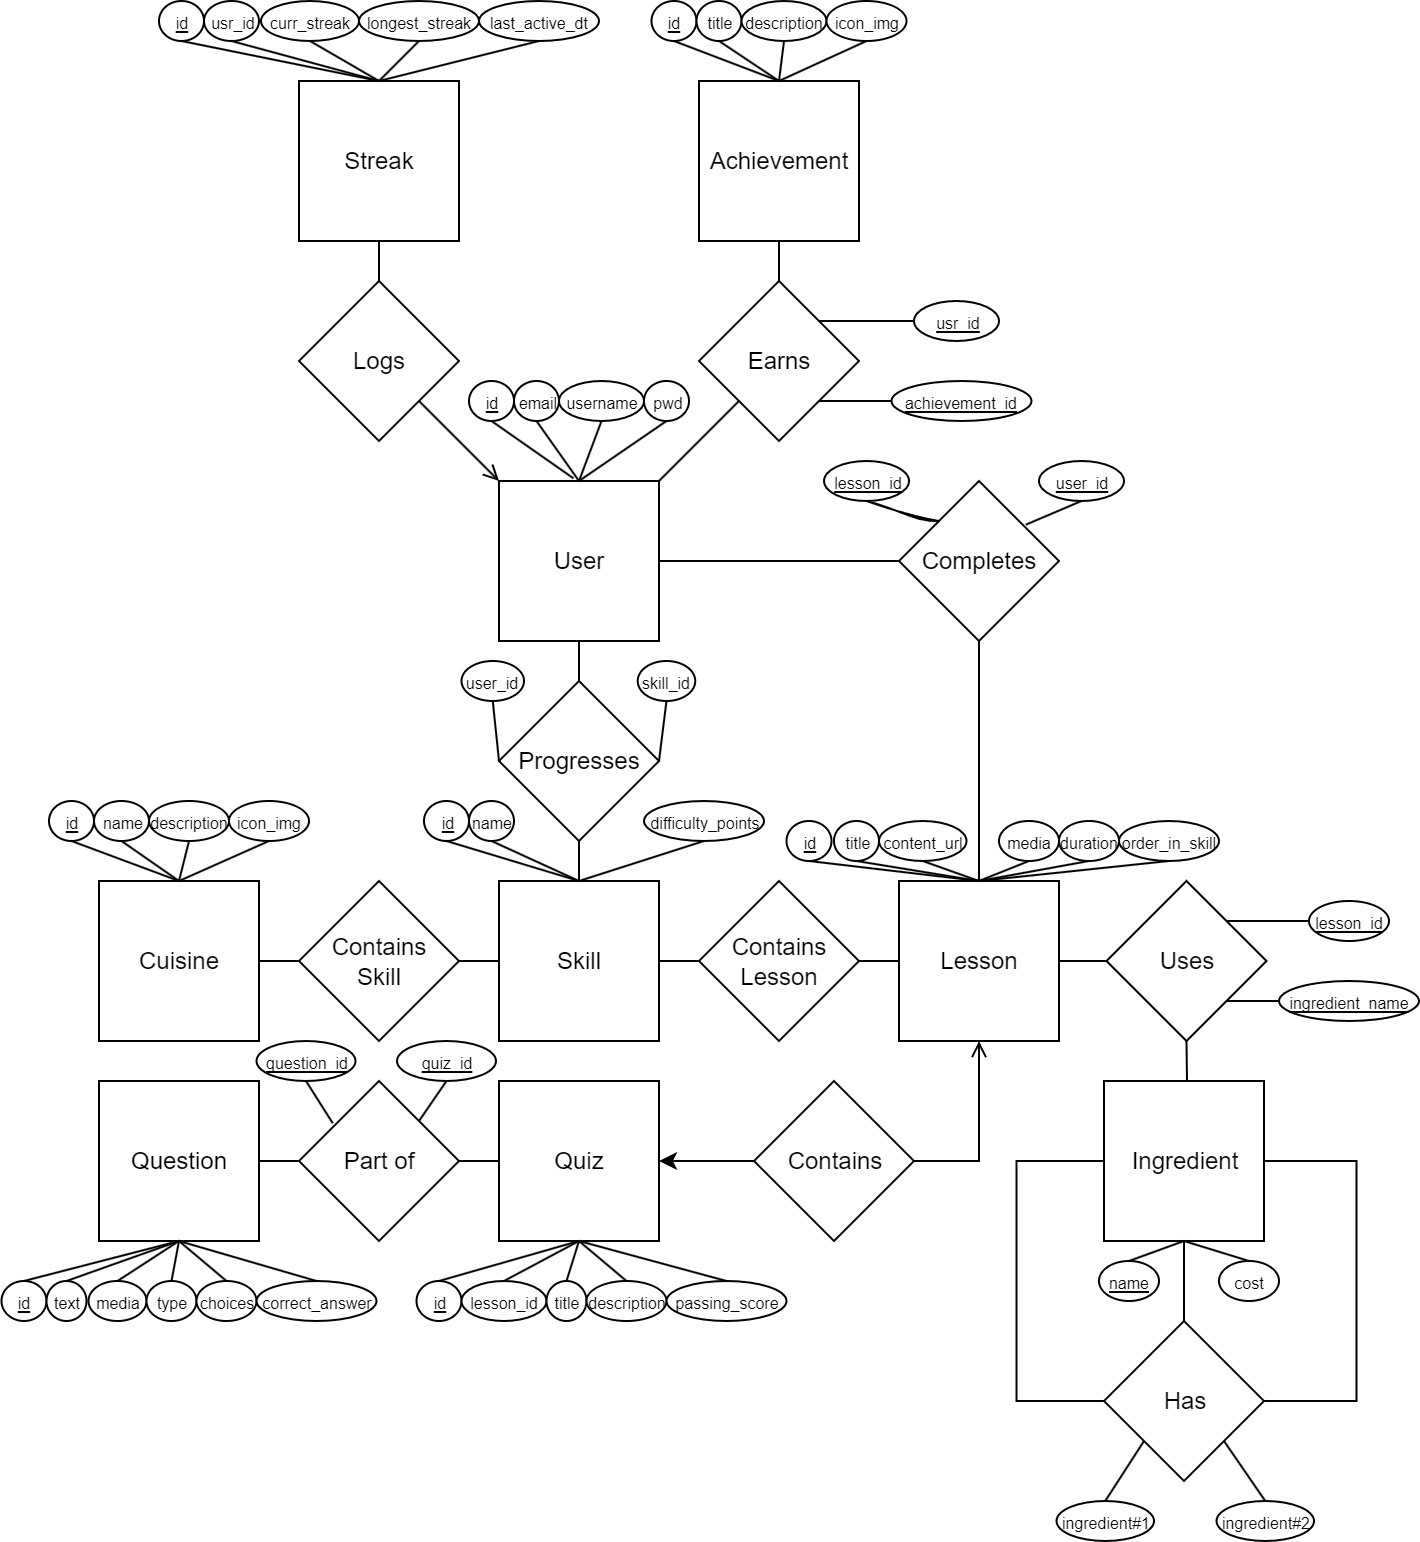
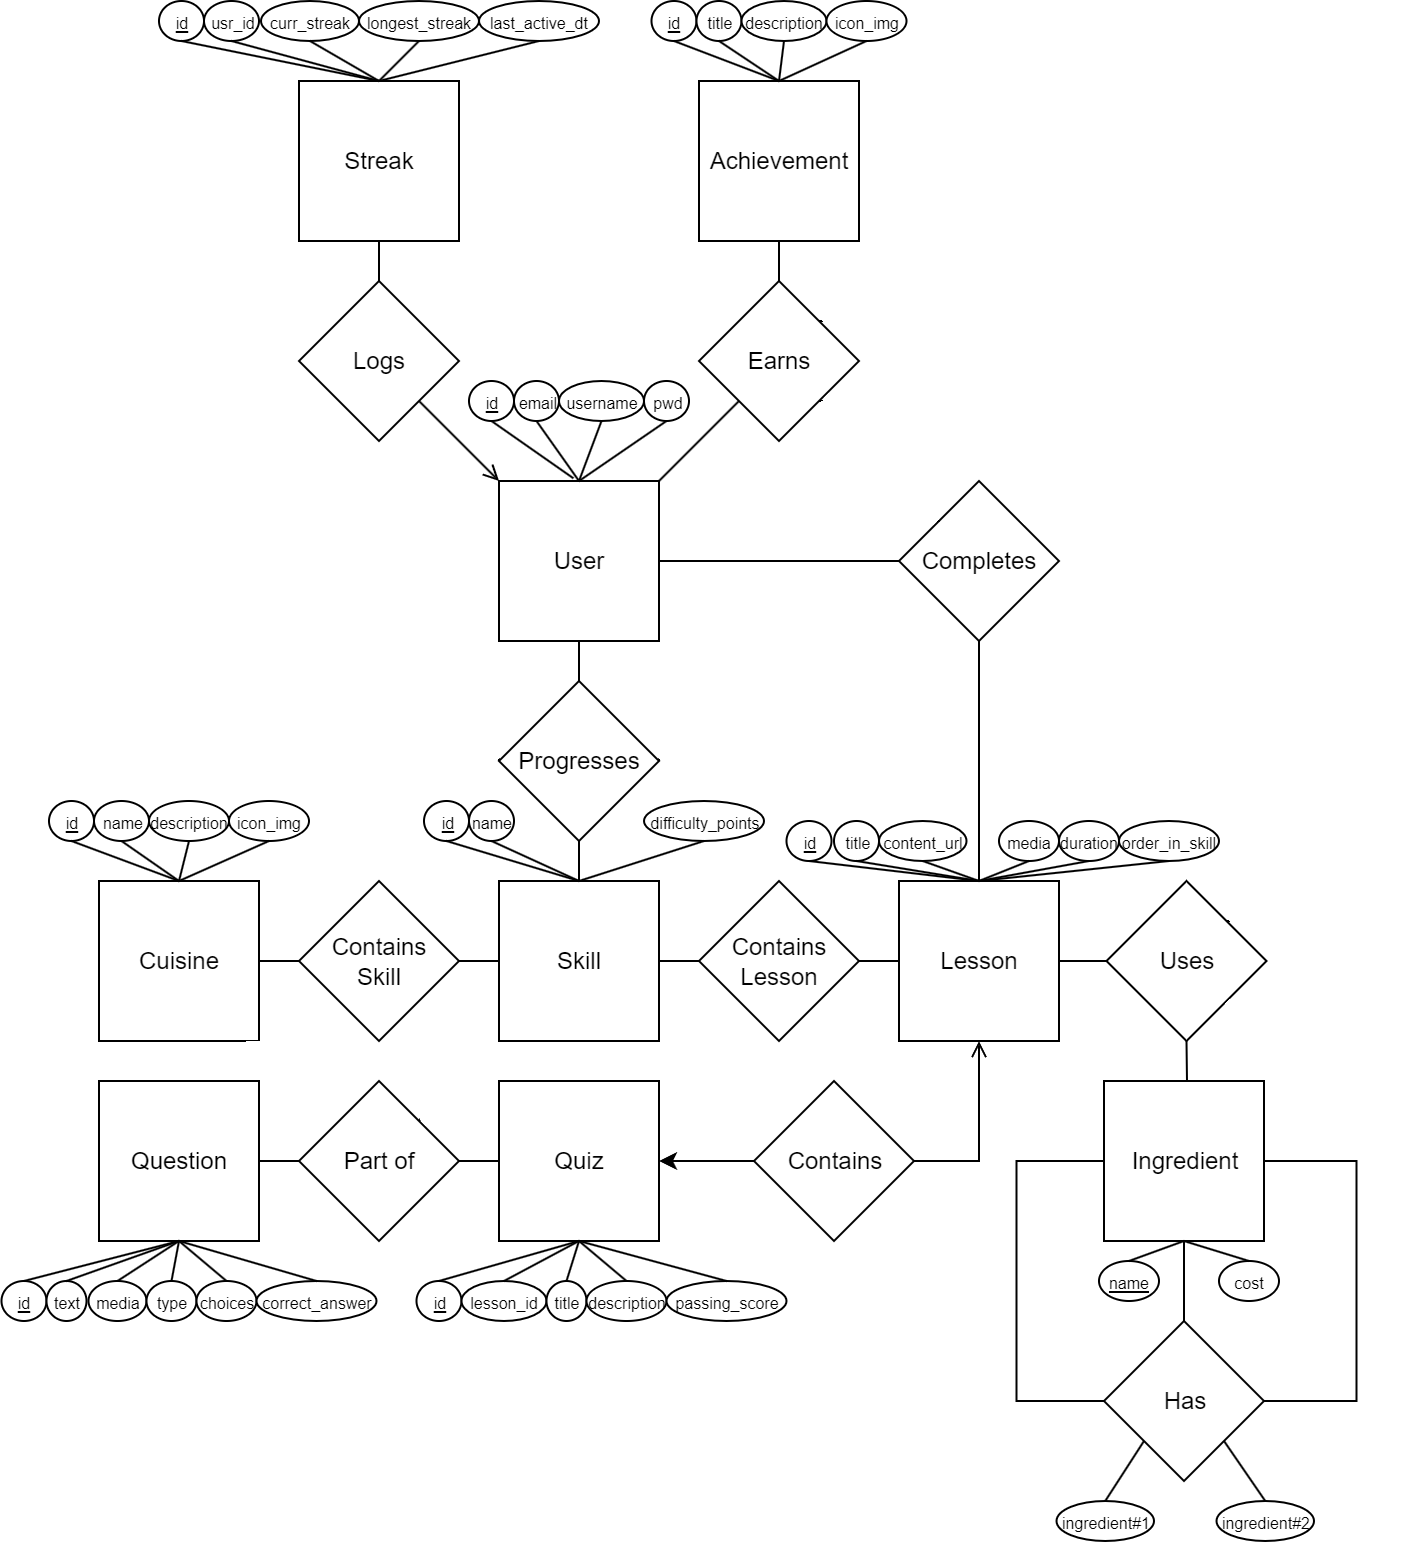
Fix ERDiagram, implement streak functionality (DB + backend)
- Update and fix the ER diagram according to feedback.
- Add streak table to the database schema.
- Implement Streak entity, repository, and controller in backend.

diff --git a/backend/src/main/java/com/chefscircle/backend/controller/StreakController.java b/backend/src/main/java/com/chefscircle/backend/controller/StreakController.java
@@ -1,0 +1,52 @@
+package com.chefscircle.backend.controller;
+
+import com.chefscircle.backend.model.Streak;
+import com.chefscircle.backend.model.User;
+import com.chefscircle.backend.repository.StreakRepository;
+import com.chefscircle.backend.repository.UserRepository;
+import org.springframework.http.ResponseEntity;
+import org.springframework.web.bind.annotation.*;
+
+import java.util.*;
+
+@RestController
+@RequestMapping("/api/streaks")
+public class StreakController {
+
+    private final StreakRepository streakRepository;
+    private final UserRepository userRepository;
+
+    public StreakController(StreakRepository streakRepository, UserRepository userRepository) {
+        this.streakRepository = streakRepository;
+        this.userRepository = userRepository;
+    }
+
+    @GetMapping
+    public List<Streak> getAllStreaks() {
+        return streakRepository.findAll();
+    }
+
+    @GetMapping("/user/{userId}")
+    public ResponseEntity<?> getStreaksByUser(@PathVariable Long userId) {
+        Optional<User> userOpt = userRepository.findById(userId);
+        if (userOpt.isEmpty()) {
+            return ResponseEntity.notFound().build();
+        }
+        List<Streak> streaks = streakRepository.findByUser(userOpt.get());
+        return ResponseEntity.ok(streaks);
+    }
+
+    @PostMapping("/user/{userId}")
+    public ResponseEntity<?> addOrUpdateStreak(
+            @PathVariable Long userId,
+            @RequestBody Streak streakData
+    ) {
+        Optional<User> userOpt = userRepository.findById(userId);
+        if (userOpt.isEmpty()) {
+            return ResponseEntity.notFound().build();
+        }
+        streakData.setUser(userOpt.get());
+        Streak savedStreak = streakRepository.save(streakData);
+        return ResponseEntity.ok(savedStreak);
+    }
+}

diff --git a/backend/src/main/java/com/chefscircle/backend/model/Streak.java b/backend/src/main/java/com/chefscircle/backend/model/Streak.java
@@ -1,0 +1,30 @@
+package com.chefscircle.backend.model;
+
+import jakarta.persistence.*;
+import java.time.LocalDate;
+
+@Entity
+@Table(name = "streak")
+public class Streak {
+    @Id
+    @GeneratedValue(strategy = GenerationType.IDENTITY)
+    private Long id;
+
+    @ManyToOne
+    @JoinColumn(name = "usr_id", nullable = false)
+    private User user;
+
+    private int currStreak;
+    private int longestStreak;
+    private LocalDate lastActiveDt;
+
+    public Long getId() { return id; }
+    public User getUser() { return user; }
+    public void setUser(User user) { this.user = user; }
+    public int getCurrStreak() { return currStreak; }
+    public void setCurrStreak(int currStreak) { this.currStreak = currStreak; }
+    public int getLongestStreak() { return longestStreak; }
+    public void setLongestStreak(int longestStreak) { this.longestStreak = longestStreak; }
+    public LocalDate getLastActiveDt() { return lastActiveDt; }
+    public void setLastActiveDt(LocalDate lastActiveDt) { this.lastActiveDt = lastActiveDt; }
+}

diff --git a/backend/src/main/java/com/chefscircle/backend/model/User.java b/backend/src/main/java/com/chefscircle/backend/model/User.java
@@ -1,10 +1,14 @@
 package com.chefscircle.backend.model;
 
+import java.util.List;
 import jakarta.persistence.Entity;
 import jakarta.persistence.GeneratedValue;
 import jakarta.persistence.GenerationType;
 import jakarta.persistence.Id;
 import jakarta.persistence.Table;
+import jakarta.persistence.OneToMany;
+import jakarta.persistence.CascadeType;
+import com.fasterxml.jackson.annotation.JsonIgnore;
 
 @Entity
 @Table(name = "users")
@@ -54,4 +58,10 @@ public class User {
     public void setPwd(String pwd) {
         this.pwd = pwd;
     }
+
+    @OneToMany(mappedBy = "user", cascade = CascadeType.ALL)
+    @JsonIgnore
+    private List<Streak> streaks;
+    public List<Streak> getStreaks() { return streaks; }
+    public void setStreaks(List<Streak> streaks) { this.streaks = streaks; }
 }

diff --git a/backend/src/main/java/com/chefscircle/backend/repository/StreakRepository.java b/backend/src/main/java/com/chefscircle/backend/repository/StreakRepository.java
@@ -1,0 +1,12 @@
+package com.chefscircle.backend.repository;
+
+import com.chefscircle.backend.model.Streak;
+import com.chefscircle.backend.model.User;
+import org.springframework.data.jpa.repository.JpaRepository;
+import java.util.Optional;
+import java.util.List;
+
+public interface StreakRepository extends JpaRepository<Streak, Long> {
+    List<Streak> findByUser(User user);
+    Optional<Streak> findTopByUserOrderByLastActiveDtDesc(User user);
+}
